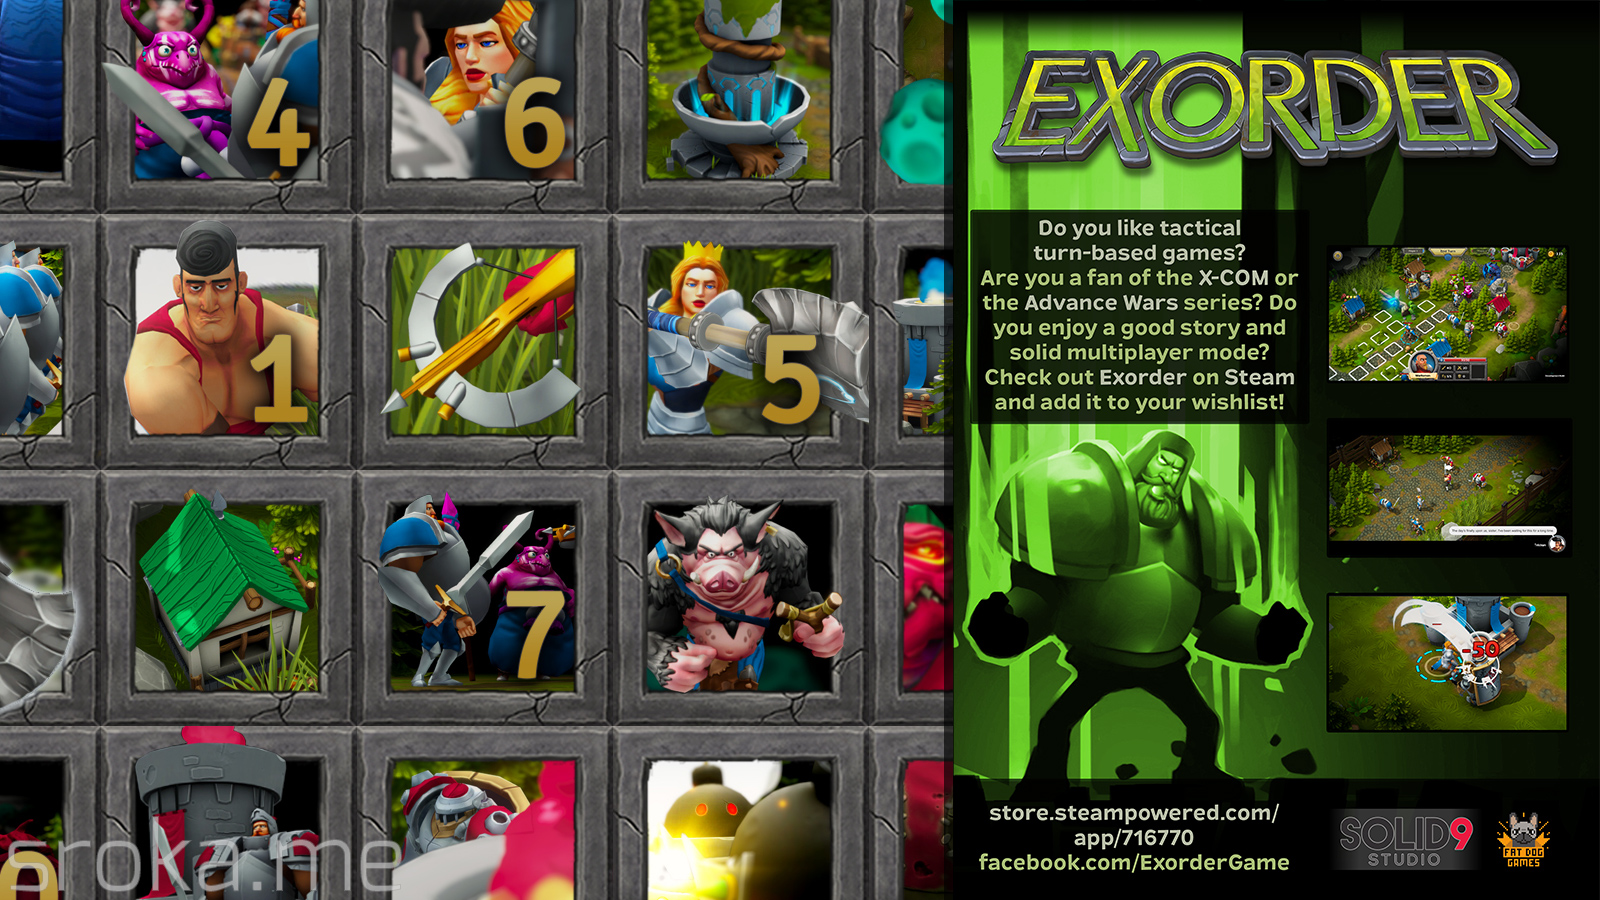
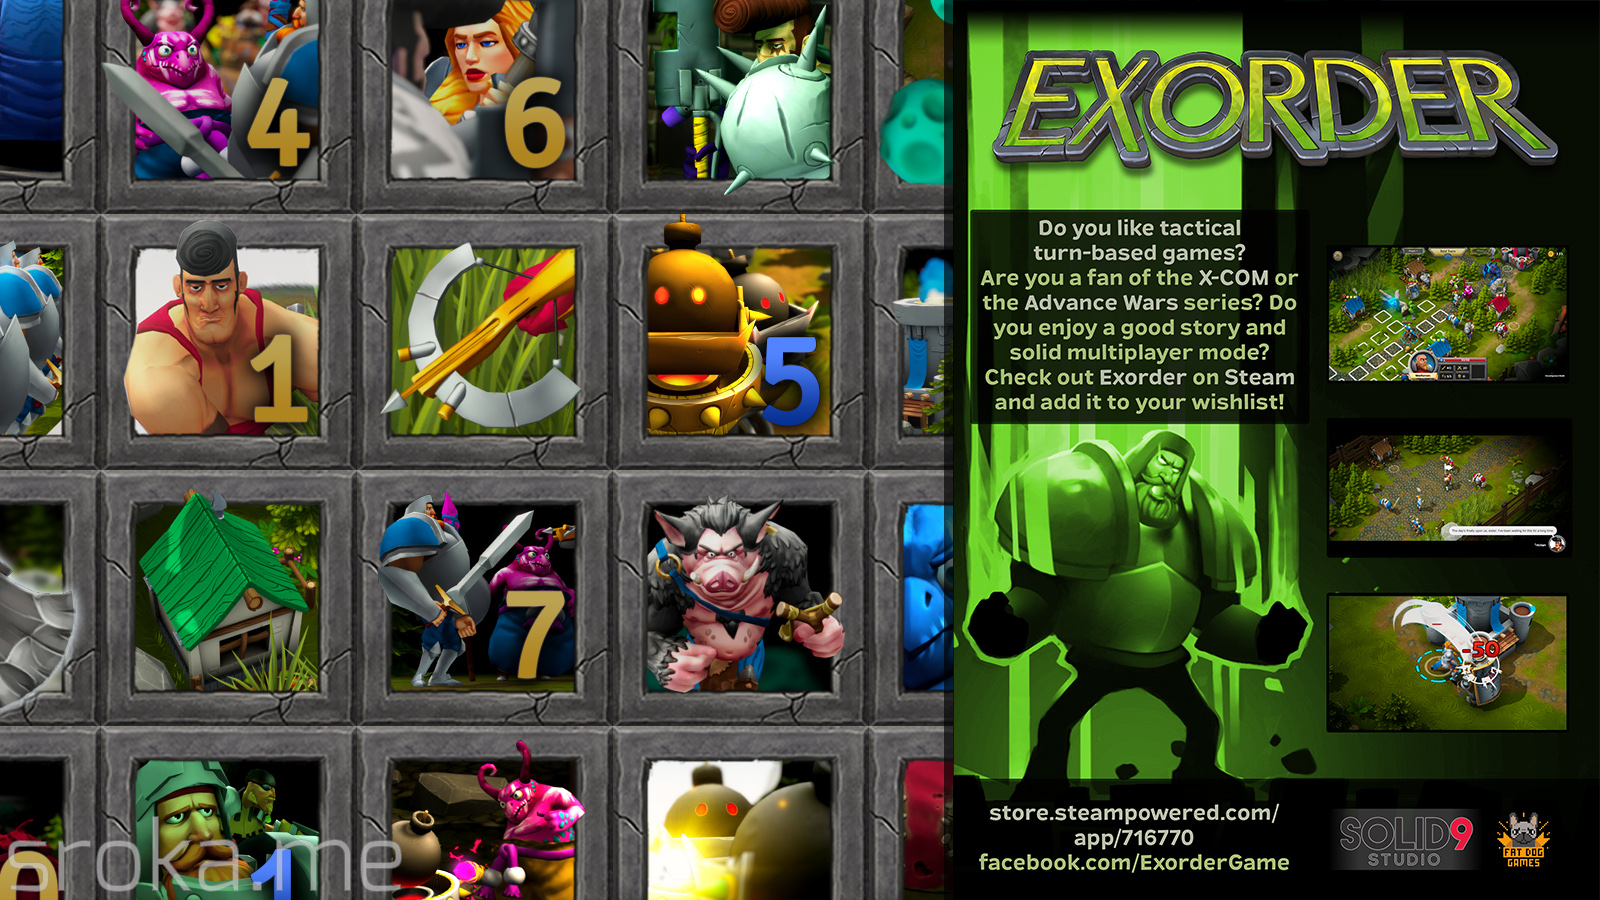
new screenes
7+8+9

diff --git a/index.html b/index.html
@@ -95,13 +95,27 @@
           	<div class="column">
 			  <a class="alt" href="images/exorder_01_full.jpg" target="_blank"><img class="gal" src="images/exorder_01_thumb.jpg" alt="&copy;Michał Sroka"/></a>
 			</div>
-          	<div class="column">
-			  <a class="alt" href="images/exorder_02_full.jpg" target="_blank"><img class="gal" src="images/exorder_02_thumb.jpg" alt="&copy;Michał Sroka"/></a>
+			          	<div class="column">
+			  <a class="alt" href="images/exorder_09_full.jpg" target="_blank"><img class="gal" src="images/exorder_09_thumb.jpg" alt="&copy;Michał Sroka"/></a>
 			</div>
-          	<div class="column">
+			          	<div class="column">
+			  <a class="alt" href="images/exorder_08_full.jpg" target="_blank"><img class="gal" src="images/exorder_08_thumb.jpg" alt="&copy;Michał Sroka"/></a>
+			</div>
+
+		<div class="row">
+			          <div class="column">
 			  <a class="alt" href="images/exorder_03_full.jpg" target="_blank"><img class="gal" src="images/exorder_03_thumb.jpg" alt="&copy;Michał Sroka"/></a>
 			</div>
-			        <div class="row">
+			          	<div class="column">
+			  <a class="alt" href="images/exorder_02_full.jpg" target="_blank"><img class="gal" src="images/exorder_02_thumb.jpg" alt="&copy;Michał Sroka"/></a>
+			</div>
+			          	<div class="column">
+			  <a class="alt" href="images/exorder_07_full.jpg" target="_blank"><img class="gal" src="images/exorder_07_thumb.jpg" alt="&copy;Michał Sroka"/></a>
+			</div>
+
+
+
+		<div class="row">
           	<div class="column">
 			  <a class="alt" href="images/exorder_04_full.jpg" target="_blank"><img class="gal" src="images/exorder_04_thumb.jpg" alt="&copy;Michał Sroka"/></a>
 			</div>
